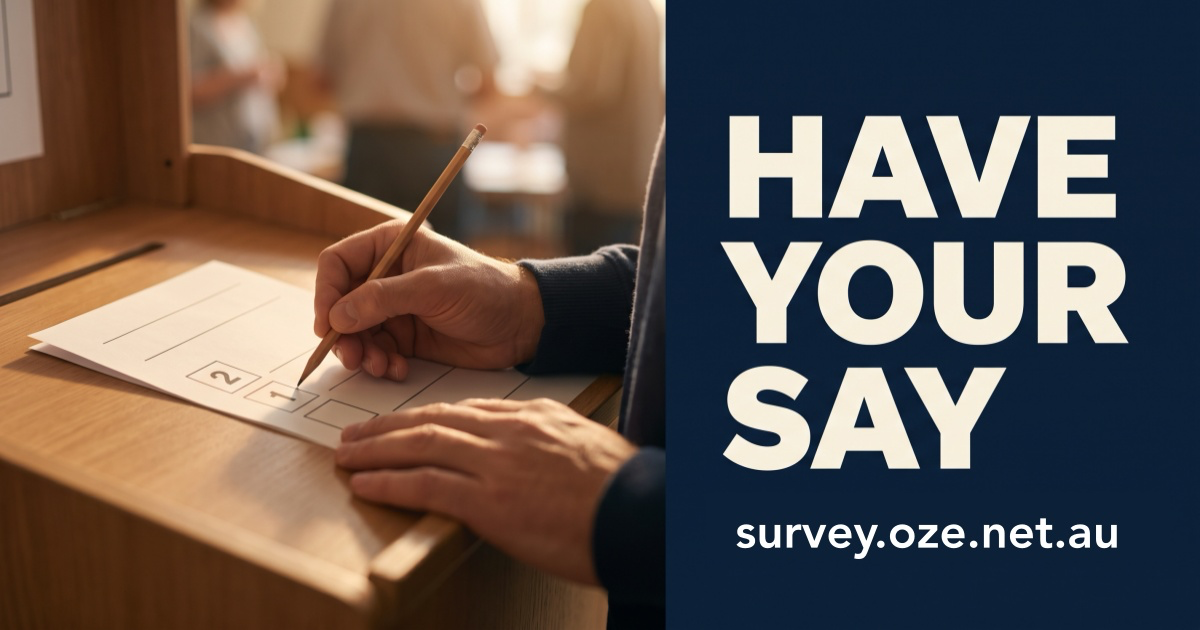
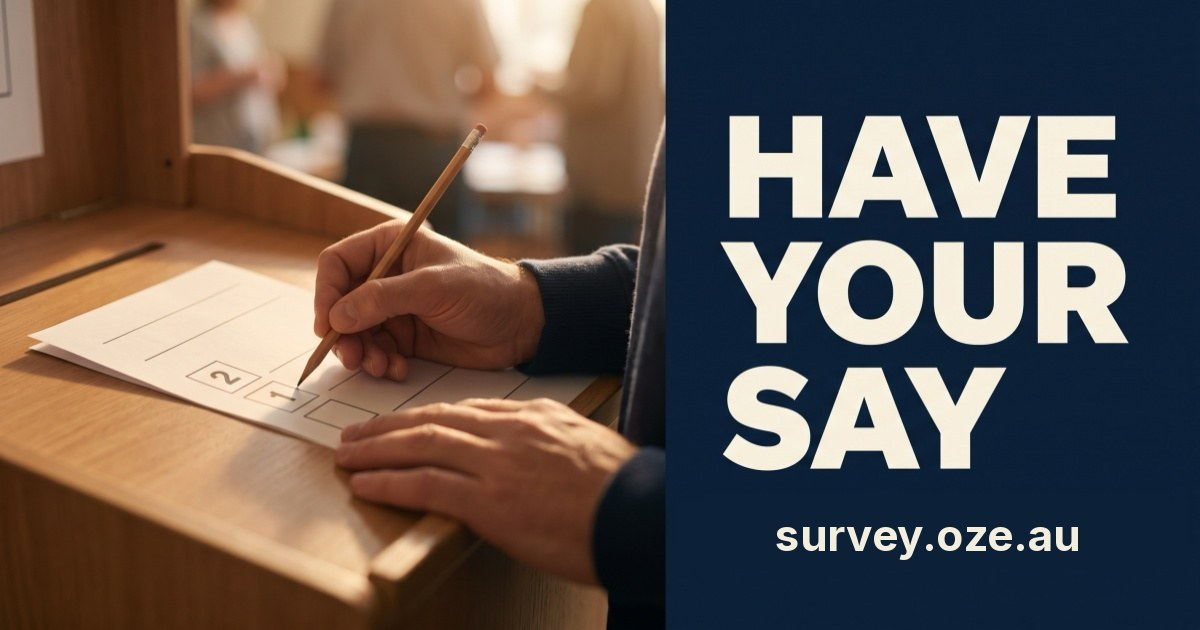
fix(og): Election Tracker OG image; survey.oze.net.au -> survey.oze.au (#47)
- New site-wide og:image/twitter:image /images/og-electiontracker-2026.jpg
  (1200x630, site branding) replacing the survey ad; cache-busting name.
- og:image:alt describes the site, not the survey.
- Survey links, copy, docs and og-survey promo graphic now use survey.oze.au.
- scripts/og/make-og-images.py regenerates all OG images (Pillow).

Changed region(s): [[0.6167, 0.8143, 0.9558, 0.9048]]

diff --git a/scripts/og/make-og-images.py b/scripts/og/make-og-images.py
@@ -1,0 +1,117 @@
+#!/usr/bin/env python3
+"""Reproducible Open Graph images for electiontracker.au.
+
+  python3 scripts/og/make-og-images.py
+
+Writes (1200x630 JPG):
+  site/public/images/og-electiontracker-2026.jpg  site-wide og:image / twitter:image
+  site/public/images/og-survey.jpg                 'Have your say' survey promo, edited
+                                                   in place: URL strip redrawn as
+                                                   survey.oze.au (idempotent)
+  og-image.jpg/png, og-survey.png, og-survey-1200.png  legacy copies of the above
+Needs Pillow. Uses Inter if installed, else DejaVu Sans / Pillow default.
+Copy is taken from site/src/pages/index.astro and site/src/lib/site.mjs.
+"""
+from pathlib import Path
+from PIL import Image, ImageDraw, ImageFont
+
+ROOT = Path(__file__).resolve().parents[2]
+IMG = ROOT / "site" / "public" / "images"
+W, H = 1200, 630
+
+NAVY = (11, 31, 58)       # logo disc
+NAVY_DEEP = (7, 21, 40)
+GOLD = (201, 162, 39)     # logo tick / ring
+TEAL = (62, 160, 168)     # logo "ELECTION" / bars
+PAPER = (251, 250, 247)   # --paper
+SAND = (206, 199, 184)    # --rule-strong
+PLUM = (91, 58, 110)      # --accent
+
+FONT_CANDIDATES = [
+    "/usr/share/fonts/truetype/sand-box/google/Inter/Inter-VariableFont_opsz,wght.ttf",
+    "/Library/Fonts/Inter-VariableFont_opsz,wght.ttf",
+    "/usr/share/fonts/truetype/dejavu/DejaVuSans-Bold.ttf",
+    "/System/Library/Fonts/Supplemental/Arial Bold.ttf",
+]
+
+
+def font(size, weight="Bold"):
+    for p in FONT_CANDIDATES:
+        if Path(p).exists():
+            f = ImageFont.truetype(p, size)
+            try:
+                f.set_variation_by_name(weight)
+            except Exception:
+                pass
+            return f
+    return ImageFont.load_default(size)
+
+
+def site_card():
+    im = Image.new("RGB", (W, H), NAVY_DEEP)
+    d = ImageDraw.Draw(im)
+    # vertical gradient navy -> deep navy
+    for y in range(H):
+        t = y / H
+        c = tuple(int(NAVY[i] * (1 - t) + NAVY_DEEP[i] * t) for i in range(3))
+        d.line([(0, y), (W, y)], fill=c)
+    # faint grid on the right (echoes the logo's map grid)
+    for x in range(720, W, 40):
+        d.line([(x, 0), (x, H)], fill=(20, 44, 76))
+    for y in range(0, H, 40):
+        d.line([(720, y), (W, y)], fill=(20, 44, 76))
+    # plum + gold accent rules
+    d.rectangle([0, 0, W, 10], fill=PLUM)
+    d.rectangle([0, 10, W, 14], fill=GOLD)
+
+    logo = Image.open(IMG / "aet-logo-512.png").convert("RGBA").resize((380, 380), Image.LANCZOS)
+    im.paste(logo, (770, 125), logo)
+
+    x = 72
+    d.text((x, 92), "INDEPENDENT · SOURCED · AUSTRALIA-WIDE", font=font(22, "SemiBold"), fill=TEAL)
+    d.text((x, 142), "Australian", font=font(70, "ExtraBold"), fill=PAPER)
+    d.text((x, 222), "Election Tracker", font=font(70, "ExtraBold"), fill=PAPER)
+    d.rectangle([x, 320, x + 96, 326], fill=GOLD)
+    tf = font(36, "Medium")
+    d.text((x, 356), "Australian elections,", font=tf, fill=SAND)
+    d.text((x, 402), "one evidence trail.", font=tf, fill=SAND)
+    d.text((x, 478), "Candidates · parties · policies · poll averages", font=font(24, "Regular"), fill=(170, 186, 206))
+    d.text((x, 540), "electiontracker.au", font=font(30, "Bold"), fill=GOLD)
+    out = IMG / "og-electiontracker-2026.jpg"
+    im.save(out, "JPEG", quality=88, optimize=True, progressive=True)
+    return out
+
+
+def survey_card():
+    src = IMG / "og-survey.jpg"
+    im = Image.open(src).convert("RGB").resize((W, H), Image.LANCZOS)
+    d = ImageDraw.Draw(im)
+    # Panel colour sampled from the navy column; blank the old URL strip.
+    panel = im.getpixel((W - 20, 600))
+    box = (676, 500, W - 12, 568)
+    d.rectangle(box, fill=panel)
+    f = font(44, "Bold")
+    text = "survey.oze.au"
+    tw = d.textlength(text, font=f)
+    cx = 928
+    d.text((cx - tw / 2, 508), text, font=f, fill=(244, 238, 222))
+    out = IMG / "og-survey.jpg"
+    im.save(out, "JPEG", quality=88, optimize=True, progressive=True)
+    return out
+
+
+def legacy_copies(card, survey):
+    """Keep older URLs valid: og-image.* now carry the site card, and the
+    og-survey PNG variants match the corrected survey promo."""
+    c, s = Image.open(card), Image.open(survey)
+    c.save(IMG / "og-image.jpg", "JPEG", quality=88, optimize=True, progressive=True)
+    c.save(IMG / "og-image.png", optimize=True)
+    s.save(IMG / "og-survey.png", optimize=True)
+    s.save(IMG / "og-survey-1200.png", optimize=True)
+    return [IMG / n for n in ("og-image.jpg", "og-image.png", "og-survey.png", "og-survey-1200.png")]
+
+
+if __name__ == "__main__":
+    card, survey = site_card(), survey_card()
+    for p in [card, survey, *legacy_copies(card, survey)]:
+        print(p.relative_to(ROOT), Image.open(p).size)

diff --git a/docs/changelog.md b/docs/changelog.md
@@ -7,6 +7,12 @@ onward. For poll *method*, see [poll-methodology.md](poll-methodology.md). For
 ongoing SEO/dashboard ops, see [discovery.md](discovery.md).
 
 
+## 2026-10-14 — Election Tracker OG image + survey.oze.au
+
+- Site-wide `og:image` / `twitter:image` now `/images/og-electiontracker-2026.jpg` (1200×630, site branding) instead of the "Have your say" survey ad; new filename busts Facebook's cache.
+- Survey links, copy and the `og-survey` promo graphic now point at **survey.oze.au** (was survey.oze.net.au).
+- Images generated by `python3 scripts/og/make-og-images.py` (Pillow).
+
 ## 2026-09-22 — NSW 2027 poll backfill + thin-series averages
 
 - Encoded Resolve Strategic / SMH NSW statewide VI for Mar, May, Jul, Sep 2026 and Roy Morgan SMS Feb 2026 under `data/nsw2027/polls/`.
@@ -131,7 +137,7 @@ ongoing SEO/dashboard ops, see [discovery.md](discovery.md).
 
 | Area | What shipped |
 |---|---|
-| **Issues survey** | Open oze survey at [survey.oze.net.au/s/vic-issues](https://survey.oze.net.au/s/vic-issues): rank the 15 matrix issues, pick whose sourced policy is closest in your view. Public opinion — not a scorecard, not in the average |
+| **Issues survey** | Open oze survey at [survey.oze.au/s/vic-issues](https://survey.oze.au/s/vic-issues): rank the 15 matrix issues, pick whose sourced policy is closest in your view. Public opinion — not a scorecard, not in the average |
 | **Tracker CTAs** | Matrix, policy pages, jurisdiction guide, key differences, and homepage |
 
 ## 2026-08-20 — Header hamburger on all widths
@@ -144,7 +150,7 @@ ongoing SEO/dashboard ops, see [discovery.md](discovery.md).
 
 | Area | What shipped |
 |---|---|
-| **Vic / federal polls + home** | Invitation to the open [oze monthly survey](https://survey.oze.net.au/s/monthly-poll). Labelled not scientific and **not** in the tracker average |
+| **Vic / federal polls + home** | Invitation to the open [oze monthly survey](https://survey.oze.au/s/monthly-poll). Labelled not scientific and **not** in the tracker average |
 | **Header / hero** | Homepage hero promo + **Take the survey**; hamburger menu includes **Survey** |
 
 ## 2026-08-19 — Poll catch-up + Allan retirement + candidate wave

diff --git a/docs/polls-inventory.md b/docs/polls-inventory.md
@@ -64,8 +64,8 @@ the primary release.
 | Federal Newspoll / Resolve with Victorian cross-breaks only | Not state voting intention (rule A) unless a separate state question is published. |
 | Leaked internal party research | No full public methodology (hard exclusion 2). |
 | Other party / union / advocacy releases (default) | Hard exclusion 1 unless a new per-record `eligibility_exception`. |
-| Oze monthly open survey ([survey.oze.net.au/s/monthly-poll](https://survey.oze.net.au/s/monthly-poll)) | Open, unweighted, anyone-with-the-link. Linked from polls pages and home as an invitation only — **not** a ledger row. August pies are seeded from the Election Tracker average (circular if averaged). |
-| Oze Vic issues survey ([survey.oze.net.au/s/vic-issues](https://survey.oze.net.au/s/vic-issues)) | Open issue ranking + closest-policy picks. Public opinion, not a matrix scorecard, **not** a ledger row. |
+| Oze monthly open survey ([survey.oze.au/s/monthly-poll](https://survey.oze.au/s/monthly-poll)) | Open, unweighted, anyone-with-the-link. Linked from polls pages and home as an invitation only — **not** a ledger row. August pies are seeded from the Election Tracker average (circular if averaged). |
+| Oze Vic issues survey ([survey.oze.au/s/vic-issues](https://survey.oze.au/s/vic-issues)) | Open issue ranking + closest-policy picks. Public opinion, not a matrix scorecard, **not** a ledger row. |
 
 ## Documented average exceptions
 

diff --git a/docs/poll-methodology.md b/docs/poll-methodology.md
@@ -118,8 +118,8 @@ A poll enters the **eligible set** only if every row holds:
    source; prefer pollster PDF or commissioning masthead).
 7. Polls that **omit sample size or fieldwork dates**.
 8. **Open oze / self-select surveys** (anyone-with-the-link, unweighted). The
-   monthly questionnaire at [survey.oze.net.au/s/monthly-poll](https://survey.oze.net.au/s/monthly-poll)
-   and the issues survey at [survey.oze.net.au/s/vic-issues](https://survey.oze.net.au/s/vic-issues)
+   monthly questionnaire at [survey.oze.au/s/monthly-poll](https://survey.oze.au/s/monthly-poll)
+   and the issues survey at [survey.oze.au/s/vic-issues](https://survey.oze.au/s/vic-issues)
    are linked as invitations only. They are **not** ledger rows and **must not**
    enter the average — the monthly poll’s August charts are seeded from this
    tracker’s average, so including them would be circular.

diff --git a/docs/policy-methodology.md b/docs/policy-methodology.md
@@ -28,7 +28,7 @@ coverage ledger (see [scope.md](scope.md)).
 - Not legal advice about constitutional powers.
 
 The open oze issues survey at
-[survey.oze.net.au/s/vic-issues](https://survey.oze.net.au/s/vic-issues) is
+[survey.oze.au/s/vic-issues](https://survey.oze.au/s/vic-issues) is
 **public opinion**. Respondents rank these 15 issues and pick whose sourced
 headline is closest in their view. It is not a matrix ranking, not a
 scorecard, and not an input to this ledger. Results are published as

diff --git a/docs/nav-tree.md b/docs/nav-tree.md
@@ -24,7 +24,7 @@ More
   Methodology                     →  /methodology
   Open data                       →  data for the current election (Vic default)
   About                           →  /about
-  Survey                          →  survey.oze.net.au
+  Survey                          →  survey.oze.au
 ```
 
 Victoria 2026 section bar (`/elections/vic/2026…`):
